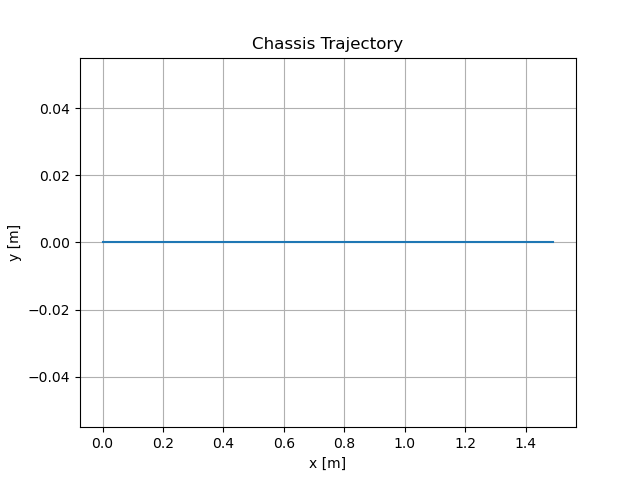
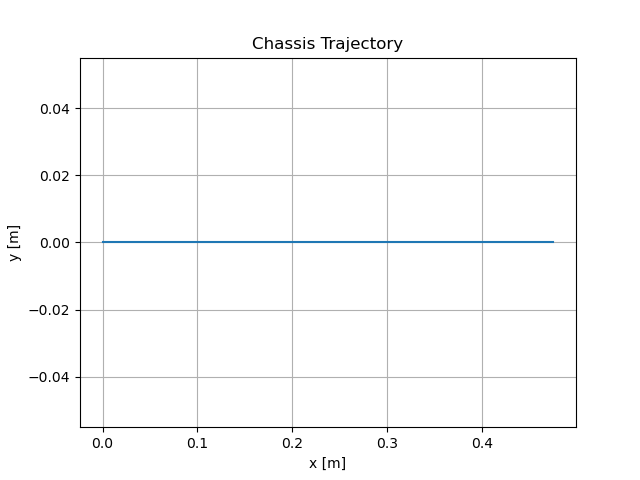
new run

diff --git a/code/next_state.py b/code/next_state.py
@@ -6,8 +6,7 @@ from robot_constants import RC
 
 def odometry(chassis_config, delta_wheel_config):
     # The function Odometry is based on the equations in Chapter 13.4
-    # It computes the new chassis configuration based on the old configuration, wheel speeds, and timestep
-    # The output is a new chassis configuration
+    # It computes the new chassis configuration based on the old configuration and the change in wheel angles
 
     # Get configs
     x, y, phi = chassis_config
@@ -15,14 +14,12 @@ def odometry(chassis_config, delta_wheel_config):
     # Since we are assuming constant wheel speeds, dt = 1
     dt = 1  # Use actual timestep between wheel displacements for non-constant speeds
     theta_dot = delta_wheel_config / dt
+    # Calculate the Body twist using the pinv(H0) and theta_dot
     V_b = RC.F @ theta_dot
-    # Integrate to get the displacement: T_bk = exp(V_b6)
-    # where k is the frame after the motion between the timestep
+    # Integrate to get the displacement: T_bk = exp([V_b6])
     V_b6 = np.array([0, 0, *V_b, 0])
     T_bk = mr.MatrixExp6(mr.VecTose3(V_b6))
     T_sk = RC.T_sb(x, y, phi) @ T_bk
-    # q_k is the new chassis config
-    # q_k= x, y, phi
     new_phi = np.arctan2(T_sk[1, 0], T_sk[0, 0])
     new_chassis_config = np.array([
         T_sk[0, 3],
@@ -30,27 +27,6 @@ def odometry(chassis_config, delta_wheel_config):
         new_phi
     ])
     return new_chassis_config
-    # If w_bz = 0, then delta_q_b = [0,v_bx,v_by]
-    # Otherwise, delta_q_b = [w_bz, ...,...]
-    # w_bz = V_b[0]
-    # v_bx = V_b[1]
-    # v_by = V_b[2]
-    # if w_bz == 0:
-    #     delta_q_b = np.array([0, v_bx, v_by])
-    # else:
-    #     delta_q_b = np.array([
-    #         w_bz,
-    #         (v_bx*np.sin(w_bz) + v_by*(np.cos(w_bz) - 1)) / w_bz,
-    #         (v_by*np.sin(w_bz) + v_bx*(1 - np.cos(w_bz))) / w_bz
-    #     ])
-
-    # delta_q = np.array([
-    #     [1, 0, 0],
-    #     [0, np.cos(phi), -np.sin(phi)],
-    #     [0, np.sin(phi), np.cos(phi)]
-    # ]) @ delta_q_b
-
-    # return chassis_config + delta_q
 
 
 def next_state(
@@ -187,26 +163,42 @@ def plot_states(states):
     plt.savefig('results/wheel_angles.png')
 
 
-def main():
-    initial_robot_configuration = np.array([
-        0, 0, 0, 0, 0, 0, 0, 0, 0, 0, 0, 0
-    ])
-
-    def rad_s(rpm):
-        return (rpm * 2 * np.pi) / 60  # rad/s
-    arm_speeds = np.array([0, 0, 0, 0, 0])  # rad/s
-    wheel_rpm = 30
-    wheel_speeds = np.array(
-        [rad_s(wheel_rpm), rad_s(wheel_rpm),
-         rad_s(wheel_rpm), rad_s(wheel_rpm)]
-    )
+def run_simulation(robot_initial_state, arm_speeds, wheel_speeds, total_time, sim_id):
     states = simulate(
-        initial_robot_state=initial_robot_configuration,
+        initial_robot_state=robot_initial_state,
         arm_speeds=arm_speeds,
         wheel_speeds=wheel_speeds,
-        total_time=10
+        total_time=total_time
     )
-    plot_states(states)
+    final_state = states[-1]
+    print(
+        f'SIM {sim_id}: {
+            np.round(robot_initial_state[:3], 3)} -> {np.round(final_state[:3], 3)}'
+    )
+    # plot_states(states)
+
+
+def main():
+    robot_initial_state = np.array([
+        0, 0, 0, 0, 0, 0, 0, 0, 0, 0, 0, 0
+    ])
+    wheel_speeds = np.array([
+        [10, 10, 10, 10],
+        [-10, 10, -10, 10],
+        [-10, 10, 10, -10],
+    ])
+    # Arm speeds are 5 zeros with the same length as wheel_speeds
+    arm_speeds = np.array([
+        [0, 0, 0, 0, 0] for _ in range(len(wheel_speeds))
+    ])
+    for i, (arm_speed, wheel_speed) in enumerate(zip(arm_speeds, wheel_speeds)):
+        run_simulation(
+            robot_initial_state=robot_initial_state,
+            arm_speeds=arm_speed,
+            wheel_speeds=wheel_speed,
+            total_time=1,
+            sim_id=i
+        )
 
 
 if __name__ == '__main__':
